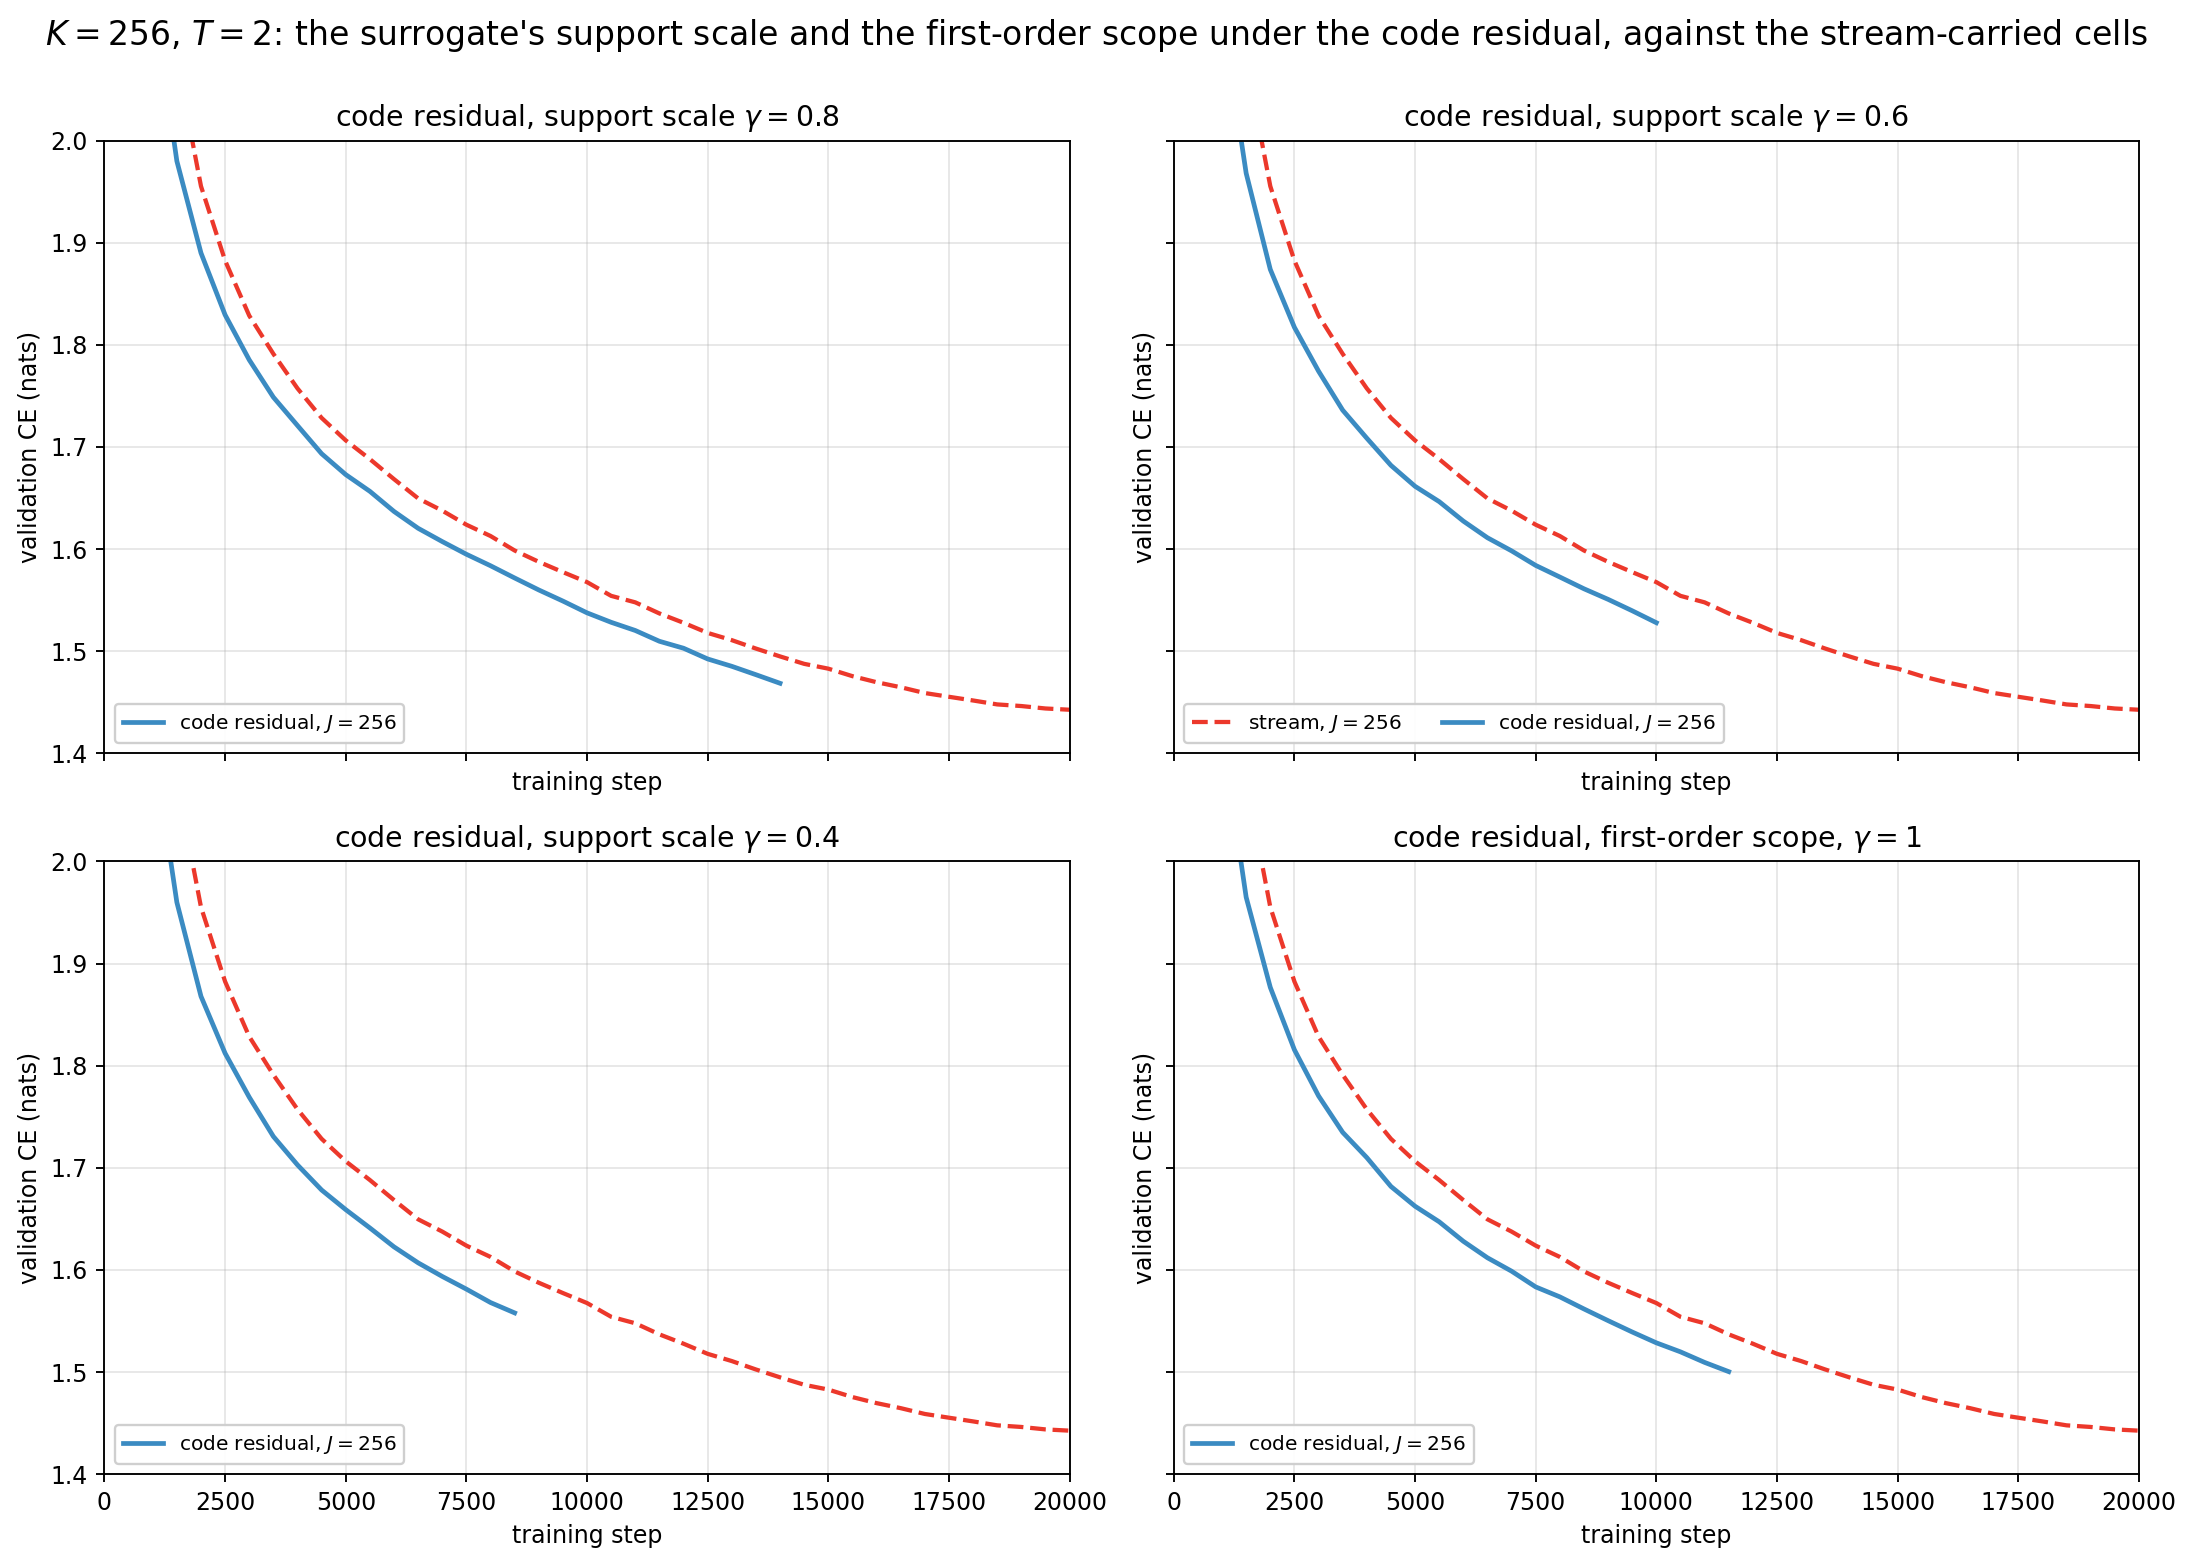
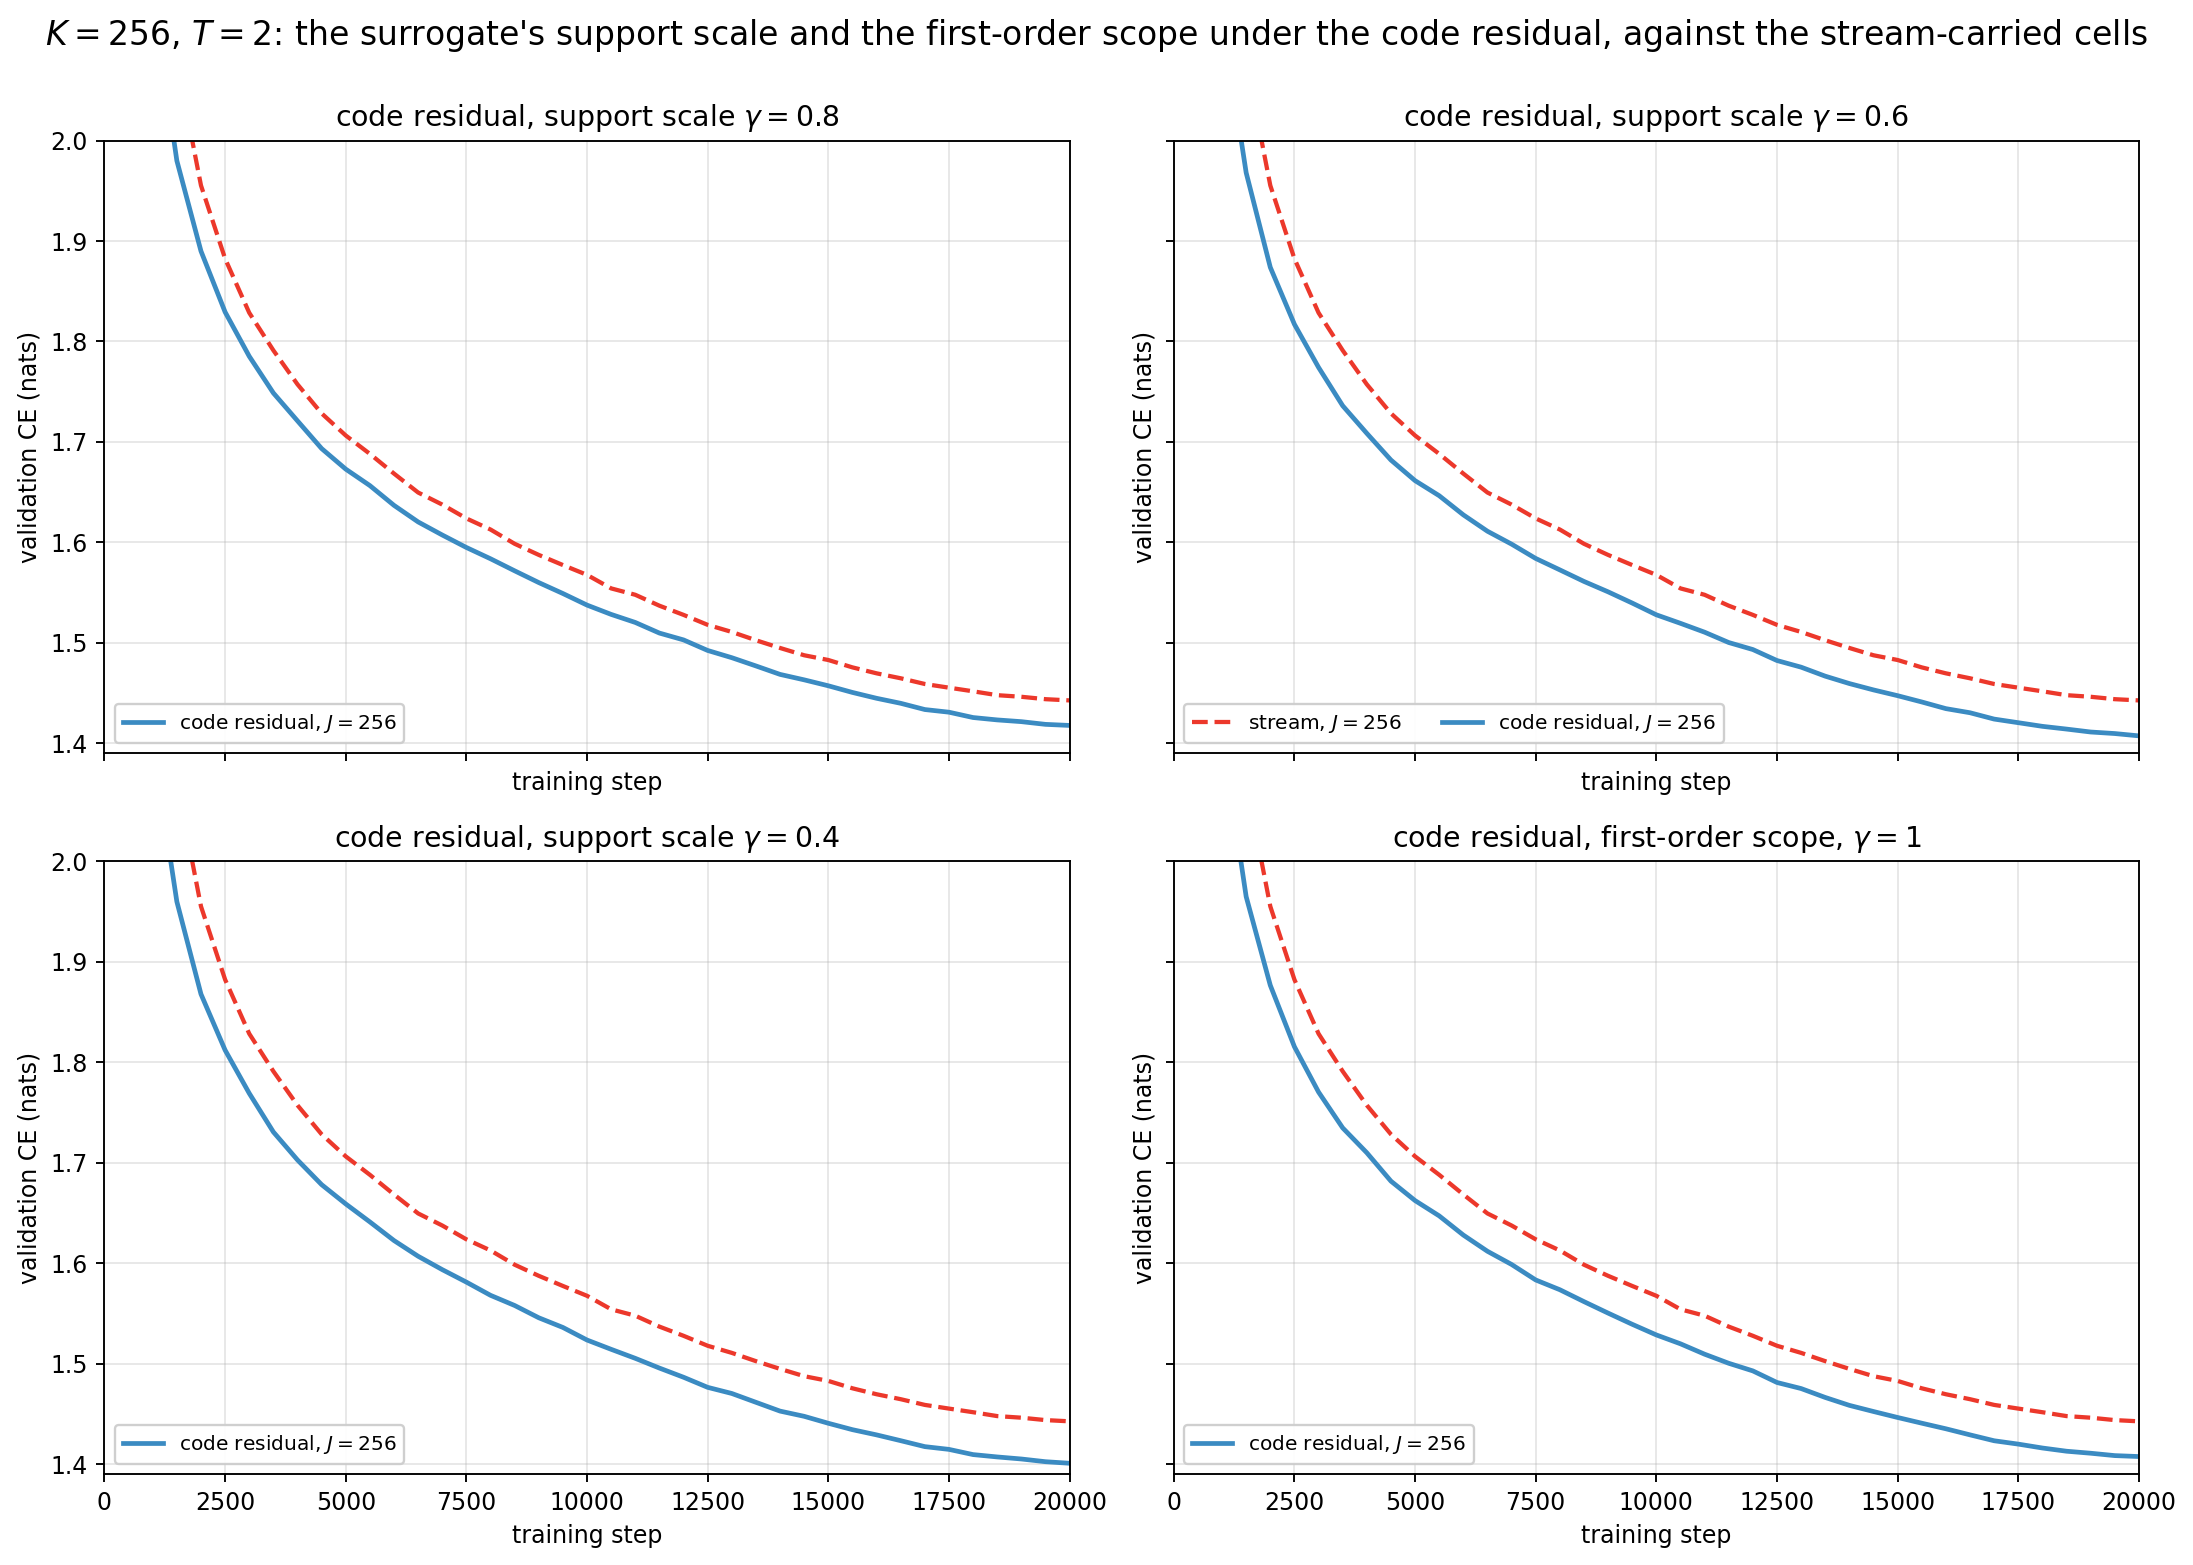
docs: code-residual K+J note -- K=256 sweep block, the sweep across K, final summary and interpretation

diff --git a/docs/kj-vs-hard-topk-code-residual.tex b/docs/kj-vs-hard-topk-code-residual.tex
@@ -89,8 +89,10 @@ backward is its best variant at every $J$. At $K = 64$ the same ordering
 holds with penalties two to five times smaller ($0.001$--$0.019$), and the
 first-order scope is within $0.005$ of the full term. At $K = 128$ the
 ordering reverses: $\gamma = 0.4$ gains $0.020$ at $J = 128$ and the
-first-order scope $0.005$--$0.008$, so the strength of the support term
-that the carry can use decreases with $K$. \PH{K=256 to follow}
+first-order scope $0.005$--$0.008$, and at $K = 256$ every weakening
+gains, $0.024$ at $\gamma = 0.4$. The best support scale under the carry
+falls from $1$ at $K \le 64$ to $0.4$ at $K = 256$, and no variant reaches
+the code-carried hard model with the same active count beyond $K = 64$.
 \end{itemize}
 
 % ============================================================
@@ -683,7 +685,46 @@ $\gamma = 0.4$ and first-order panels; in the $\gamma = 0.4$ panel the
 $J = 128$ curve ends below the $J = 384$ one.}
 \end{figure}
 
-%%SWEEP-K256%%
+\subsection*{$K = 256$}
+
+\begin{center}\small
+\begin{tabular}{lcccccc}
+\toprule
+$J$ & stream & code, $\gamma{=}1$ & $\gamma{=}0.8$ & $\gamma{=}0.6$ & $\gamma{=}0.4$ & first-order \\
+\midrule
+$256$ & 1.4425 & 1.4244 & 1.4176 & 1.4072 & 1.4007 & 1.4074 \\
+\bottomrule
+\end{tabular}
+\end{center}
+
+Every weakening gains, monotonically in $\gamma$: $0.007$ at $\gamma = 0.8$,
+$0.017$ at $0.6$, $0.024$ at $0.4$, and $0.017$ for the first-order scope,
+which again lands at the $\gamma = 0.6$ level. The best cell, $1.4007$, is
+$0.042$ below the stream-carried cell and $0.014$ below the best model of
+the K+J note (the stream-carried $(256,256)$ post-norm cell at $1.4146$),
+and still $0.010$ above code-carried hard Top-256 ($1.3907$) and $0.038$
+above hard Top-512.
+
+\begin{figure}[htb]\centering
+\includegraphics[width=\textwidth]{figures/kj-cr/cr_k256_sweep.png}
+\caption{$K = 256$, $T = 2$, no output norm, $J = 256$; panels as in the
+$K = 32$ figure. The solid curve lies below the dashed one from the first
+validation point in every panel, by a margin that widens from $\gamma = 0.8$
+to $\gamma = 0.4$; the $\gamma = 0.4$ and first-order panels are the lowest.}
+\end{figure}
+
+\paragraph{Across $K$.}
+The best support scale under the carry falls with the active count. Taking
+each $K$'s widest window, the best variant is $\gamma = 1$ at $K = 32$
+($1.4927$; $\gamma = 0.4$ costs $0.026$), $\gamma = 1$ at $K = 64$
+($1.4641$; $\gamma = 0.4$ costs $0.019$), the first-order scope at $K = 128$
+($1.4385$; $\gamma = 0.4$ gains $0.004$) and $\gamma = 0.4$ at $K = 256$
+(gains $0.024$). The first-order scope behaves like a support scale of about
+$0.6$--$0.8$ at every $K$. Against the code-carried hard baseline with the
+same active count, the best code-carried surrogate of the sweep is $0.047$
+better at $K = 32$, $0.010$ better at $K = 64$, and $0.013$ and $0.010$
+worse at $K = 128$ and $256$; the sweep narrows the deficits of
+Section~4 ($0.021$ and $0.032$) but does not close them.
 
 % ============================================================
 \section{Interpretation}
@@ -750,9 +791,15 @@ damping the term to $\gamma = 0.4$ or removing its products gains up to
 $0.020$, which is the 24-layer study's finding at $K = 256$ -- the term on
 the active members crowds the rank boundary once many features are active
 -- now visible at eight blocks. Under the carry the best support scale
-therefore falls with $K$, from the full term at $K = 32$ to about $0.4$ at
-$K = 128$, and none of the variants closes the gap to the code-carried hard
-model at the same active count. \PH{sweep at K=256}
+therefore falls with $K$, from the full term at $K \le 64$ to $0.4$ at
+$K = 256$, where the gain reaches $0.024$ and is monotone in $\gamma$. The
+pattern is a single crossover: with few active features the window's
+gradient is worth its full strength and its compounding along the carry is
+harmless; with many, the term itself is too strong, and both damping it and
+the first-order scope help. None of the variants closes the gap to the
+code-carried hard model at the same active count beyond $K = 64$: the best
+code-carried surrogate at $K = 256$ ($1.4007$) remains $0.010$ above hard
+Top-256 and $0.038$ above hard Top-512.
 
 % ============================================================
 \section{Scope}
@@ -768,7 +815,9 @@ four were stopped by the divergence guard's rule (training CE more than
 $2.5$ above its best for 800 steps) and one by hand after its validation CE
 had reached the unigram level. The grid itself keeps the default surrogate
 scope and support scale, as the single-flag premise requires; Section~6
-varies both at $K=32$, $T=2$ only. The depth is eight blocks throughout,
+varies them one at a time, at $T = 2$ only and at the grid's $(K, J)$ --
+the post-norm ($T = 1$) arm, where the compounding of the support term
+collapsed five cells, was not swept. The depth is eight blocks throughout,
 $K + J \le 512$ well inside $N = 1536$, and the hard baselines all carry the
 post-norm.
 
